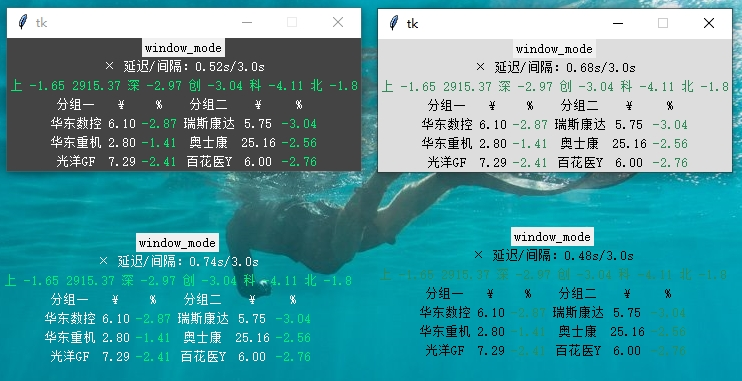
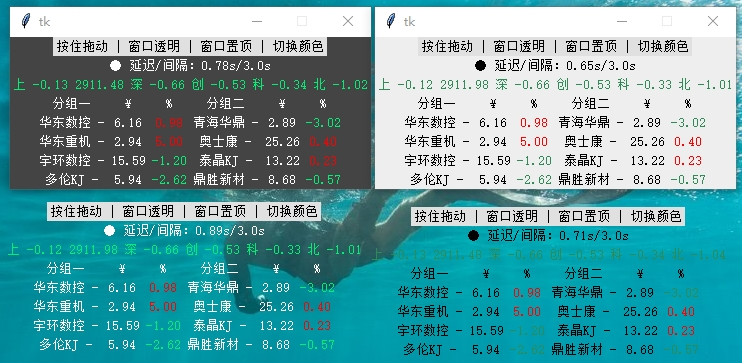
add more btns

diff --git a/gui.py b/gui.py
@@ -6,28 +6,15 @@ from utils import fraction_2, seconds_to_hms
 
 _cfg: dict = None
 _font = ("宋体", 10)
-_theme: Theme = None
-
-_root: tk.Tk = None
-_transparent_mode = False
-_dragged = 0
-_x: int = 0
-_y: int = 0
-
+_theme_list: list = []
+_theme: Theme | None = None
 gui_data_store: DataStore | None = None
 
-def _parse_gui_theme(cfg: dict) -> Theme:
-  t = Theme()
-  theme_name = cfg.get("gui_theme")
-  if theme_name:
-    theme_list: dict = cfg.get("gui_theme_list")
-    current: dict = theme_list.get(theme_name) if theme_list else None
-    if current:
-      t.bg_color = current["bg_color"] if current.get("bg_color") else t.bg_color
-      t.font_color = current["font_color"] if current.get("font_color") else t.font_color
-      t.red = current["red"] if current.get("red") else t.red
-      t.green = current["green"] if current.get("green") else t.green
-  return t
+_root: tk.Tk = None
+_x: int = 0
+_y: int = 0
+_transparent_mode = False
+_topmost_mode = False
 
 
 def _destroy_window() -> None:
@@ -36,35 +23,88 @@ def _destroy_window() -> None:
   os._exit(os.EX_OK)
 
 
-def _drag_start(event) -> None:
-  global _dragged, _x, _y
+def _drag_start(event: tk.Event) -> None:
+  global _x, _y
   _x = event.x
   _y = event.y
-  _dragged = 1
 
 
-def _drag_move(event) -> None:
-  global _root, _dragged, _x, _y
+def _drag_move(event: tk.Event) -> None:
+  global _root, _x, _y
   x = _root.winfo_x() + event.x - _x
   y = _root.winfo_y() + event.y - _y
   _root.geometry(f"+{x}+{y}")
-  _dragged = 2
 
 
-def _drag_release(event) -> None:
-  global _dragged, _x, _y
-  if _dragged == 1:
-    _change_window_mode()
-  _dragged = 0
+def _drag_release(event: tk.Event) -> None:
+  global _x, _y
   _x = None
   _y = None
 
 
-def _change_window_mode() -> None:
+def _switch_transparent(event: tk.Event) -> None:
   global _cfg, _theme, _root, _transparent_mode
-  _root.overrideredirect(0 if _transparent_mode else 1) # 窗口边框
-  _root.wm_attributes("-transparentcolor", "" if _transparent_mode else _theme.bg_color) # 透明背景
   _transparent_mode = not _transparent_mode
+  # 窗口边框
+  _root.overrideredirect(1 if _transparent_mode else 0) 
+  # 透明背景
+  _root.wm_attributes("-transparentcolor", _theme.bg_color if _transparent_mode else "") 
+
+
+def _switch_topmost(event: tk.Event) -> None:
+  global _root, _topmost_mode
+  _topmost_mode = not _topmost_mode
+  # 窗口置顶
+  _root.wm_attributes("-topmost", _topmost_mode)
+  event.widget.configure(text="已置顶 |" if _topmost_mode else "窗口置顶 |")
+
+
+def _fill_theme(t: Theme, current: dict) -> None:
+  t.bg_color = current["bg_color"] if current.get("bg_color") else t.bg_color
+  t.font_color = current["font_color"] if current.get("font_color") else t.font_color
+  t.red = current["red"] if current.get("red") else t.red
+  t.green = current["green"] if current.get("green") else t.green
+
+
+def _parse_theme_list() -> None:
+  global _cfg, _theme_list, _theme
+  cur_theme_name = _cfg.get("gui_theme")
+  list: dict = _cfg.get("gui_theme_list")
+  for i, (k, v) in enumerate(list.items()):
+    t = Theme()
+    _fill_theme(t, v)
+    _theme_list.append(t)
+    if k == cur_theme_name:
+      _theme = t
+  if not _theme:
+    _theme = Theme()
+
+
+def _switch_theme(event) -> None:
+  global _theme_list, _theme, _root
+  if len(_theme_list) < 2:
+    return
+  i = _theme_list.index(_theme)
+  if i < 0:
+    return
+  i = i + 1 if i < len(_theme_list) - 1 else 0
+  _theme = _theme_list[i]
+
+  _root.config(bg=_theme.bg_color)
+  _apply_theme(_theme, _root)
+
+
+def _apply_theme(theme: Theme, widget: tk.Widget) -> None:
+  if widget.children is None or len(widget.children) == 0:
+    return
+  for i, (name, child) in enumerate(widget.children.items()):
+    if name == "frame_btns":
+      continue
+    if isinstance(child, tk.Frame):
+      child.config(bg=theme.bg_color)
+      _apply_theme(theme, child)
+    elif isinstance(child, tk.Label):
+      child.config(bg=theme.bg_color, fg=theme.font_color)
 
 
 def _colorize(data_store: DataStore, stock: Stock) -> str:
@@ -93,13 +133,13 @@ def _create_stock_groups_grids(frame: tk.Frame, data_store: DataStore) -> None:
     col_name = i * 3
 
     group: StockGroup = data_store.stock_groups[i]
-    label_group_name = tk.Label(frame, name=f"group_name{i}", text=group.name, 
+    label_group_name = tk.Label(frame, text=group.name, 
                                 bg=_theme.bg_color, fg=_theme.font_color, font=_font)
     label_group_name.grid(row=0, column=col_name)
-    label_group_price = tk.Label(frame, name=f"group_price{i}", text="¥", 
+    label_group_price = tk.Label(frame, text="¥", 
                                 bg=_theme.bg_color, fg=_theme.font_color, font=_font)
     label_group_price.grid(row=0, column=col_name + 1)
-    label_group_amp = tk.Label(frame, name=f"group_amp{i}", text="%", 
+    label_group_amp = tk.Label(frame, text="%", 
                                 bg=_theme.bg_color, fg=_theme.font_color, font=_font)
     label_group_amp.grid(row=0, column=col_name + 2)
     
@@ -184,20 +224,31 @@ def _listen_loop() -> None:
 def create_window(cfg: dict, local: dict, data_store: DataStore) -> None:
   global _cfg, _theme, _font, _root
   _cfg = cfg
-  _theme = _parse_gui_theme(cfg)
   _font = (_font[0], int(cfg["gui_font_size"]))
+  _parse_theme_list()
 
   _root = tk.Tk()
   _root.resizable(False, False)
   _root.config(bg=_theme.bg_color)
   _root.protocol("WM_DELETE_WINDOW", _destroy_window)
-  _root.wm_attributes("-topmost", bool(cfg["gui_topmost"])) # 窗口置顶
-  _root.bind("<ButtonPress-1>", _drag_start)
-  _root.bind("<B1-Motion>", _drag_move)
-  _root.bind("<ButtonRelease-1>", _drag_release)
 
-  label_drag = tk.Label(_root, text="window_mode", fg="#000", font=_font)
-  label_drag.pack()
+  frame_btns = tk.Frame(_root, name="frame_btns")
+  frame_btns.config(bg=_theme.bg_color)
+  label_drag = tk.Label(frame_btns, text="按住拖动 |", fg="#000", font=_font)
+  label_drag.bind("<ButtonPress-1>", _drag_start)
+  label_drag.bind("<B1-Motion>", _drag_move)
+  label_drag.bind("<ButtonRelease-1>", _drag_release)
+  label_transparent = tk.Label(frame_btns, text="窗口透明 |", fg="#000", font=_font)
+  label_transparent.bind("<Button-1>", _switch_transparent)
+  label_topmost = tk.Label(frame_btns, name="label_topmost", text="窗口置顶 |", 
+                           fg="#000", font=_font)
+  label_topmost.bind("<Button-1>", _switch_topmost)
+  label_theme = tk.Label(frame_btns, text="切换颜色", fg="#000", font=_font)
+  label_theme.bind("<Button-1>", _switch_theme)
+  for i, label in enumerate([label_drag, label_transparent, label_topmost, label_theme]):
+    label.config(bg="#e0e0e0")
+    label.grid(row=0, column=i)
+  frame_btns.pack()
 
   # label of market status
   label_market_status = tk.Label(_root, name="label_market_status", text="loading",

diff --git a/README.md b/README.md
@@ -1,13 +1,13 @@
-### 控制台/GUI窗口，轮询展示行情
+### GUI窗口(可透明)/控制台，轮询展示行情
+![screenshot_3](./screenshot_3.png)
 ![screenshot](./screenshot.png)
 ![screenshot_2](./screenshot_2.png)
-![screenshot_3](./screenshot_3.png)
 
 ### Features
 - 支持查询沪深京主要指数、个股、ETF，支持分组。
 - 涨跌幅可配置红绿着色，也可不着色。
 - 开市时段，自动轮询，可配置轮询间隔。闭市时段，查询一次后结束。
-- GUI窗口模式下，可自定义颜色主题和字体大小，切换透明窗口（点击window_mode按钮）、启用置顶。鼠标左键按住窗口任意不透明部分，可拖动窗口。
+- GUI窗口模式下，可自定义颜色主题和字体大小，切换透明窗口、窗口置顶。。
 - 控制台模式下，按`Ctrl + C`键退出。
 
 ### Usage
